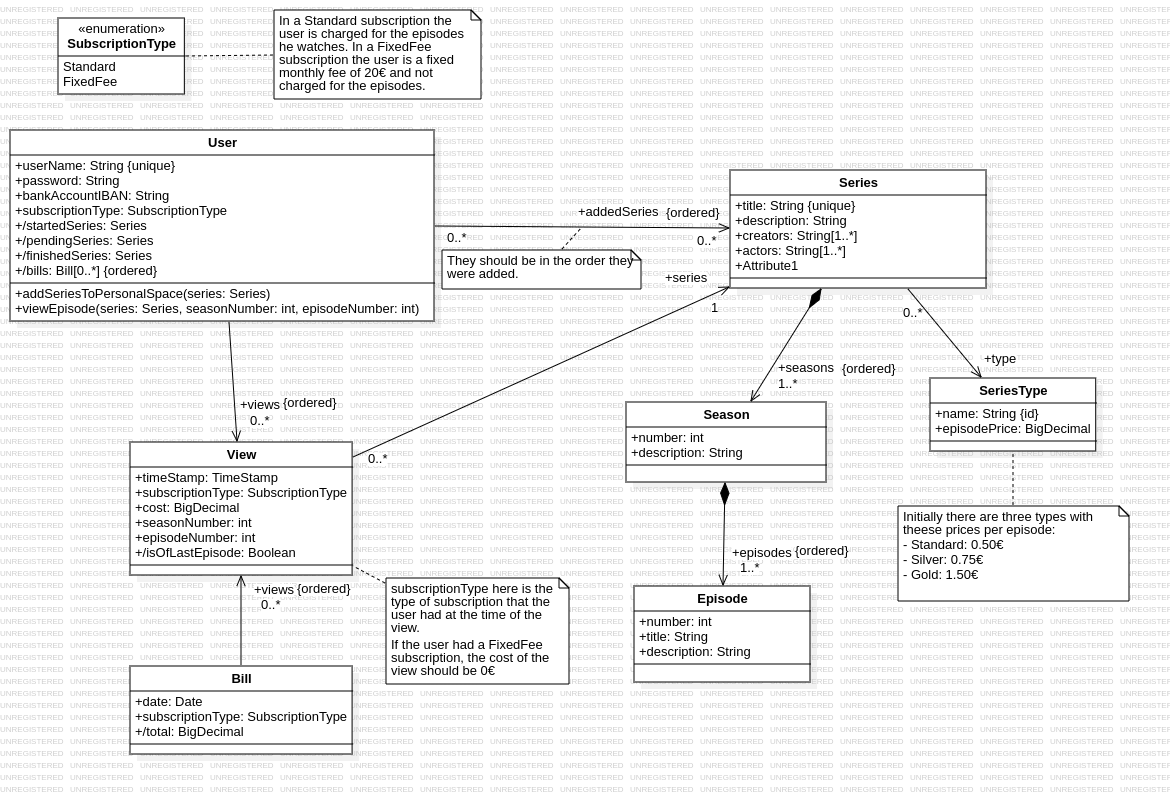
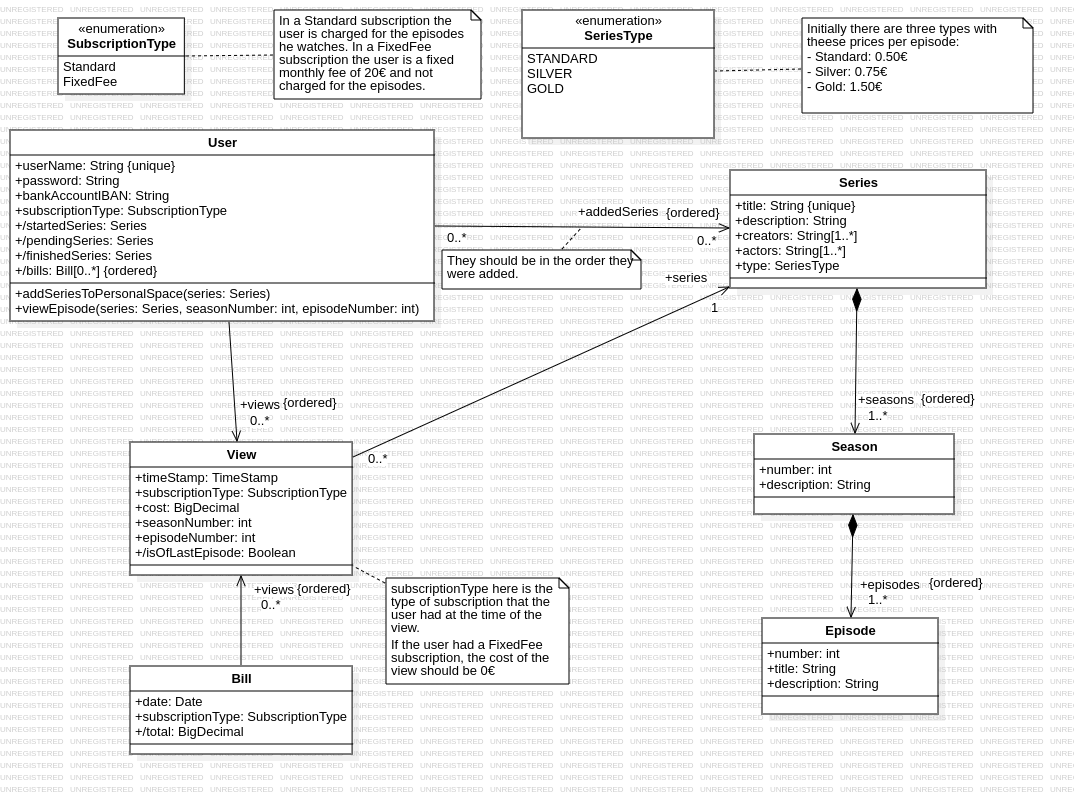
Change SeriesType to an enum

Changed region(s): [[0.0, 0.0, 0.9832, 0.9975], [0.1844, 0.1511, 0.2151, 0.1814]]

diff --git a/src/main/kotlin/com/mehdiflix/mehdiflix/domain/Series.kt b/src/main/kotlin/com/mehdiflix/mehdiflix/domain/Series.kt
@@ -9,7 +9,6 @@ data class Series (
     var description: String,
     var creators: Set<String>,
     var actors: Set<String>,
-    @ManyToOne(cascade = [CascadeType.PERSIST])
     var seriesType: SeriesType,
     @OneToMany(cascade = [CascadeType.ALL])
     var seasons: MutableList<Season>,
@@ -17,12 +16,11 @@ data class Series (
     var id: Long? = null,
 )
 
-@Entity
-data class SeriesType(
-    @Id
-    var name: String,
-    var episodePrice: BigDecimal,
-)
+enum class SeriesType(val episodePrice: BigDecimal) {
+    STANDARD(BigDecimal(0.5)),
+    SILVER(BigDecimal(0.75)),
+    GOLD(BigDecimal(1.5)),
+}
 
 @Entity
 data class Season(
